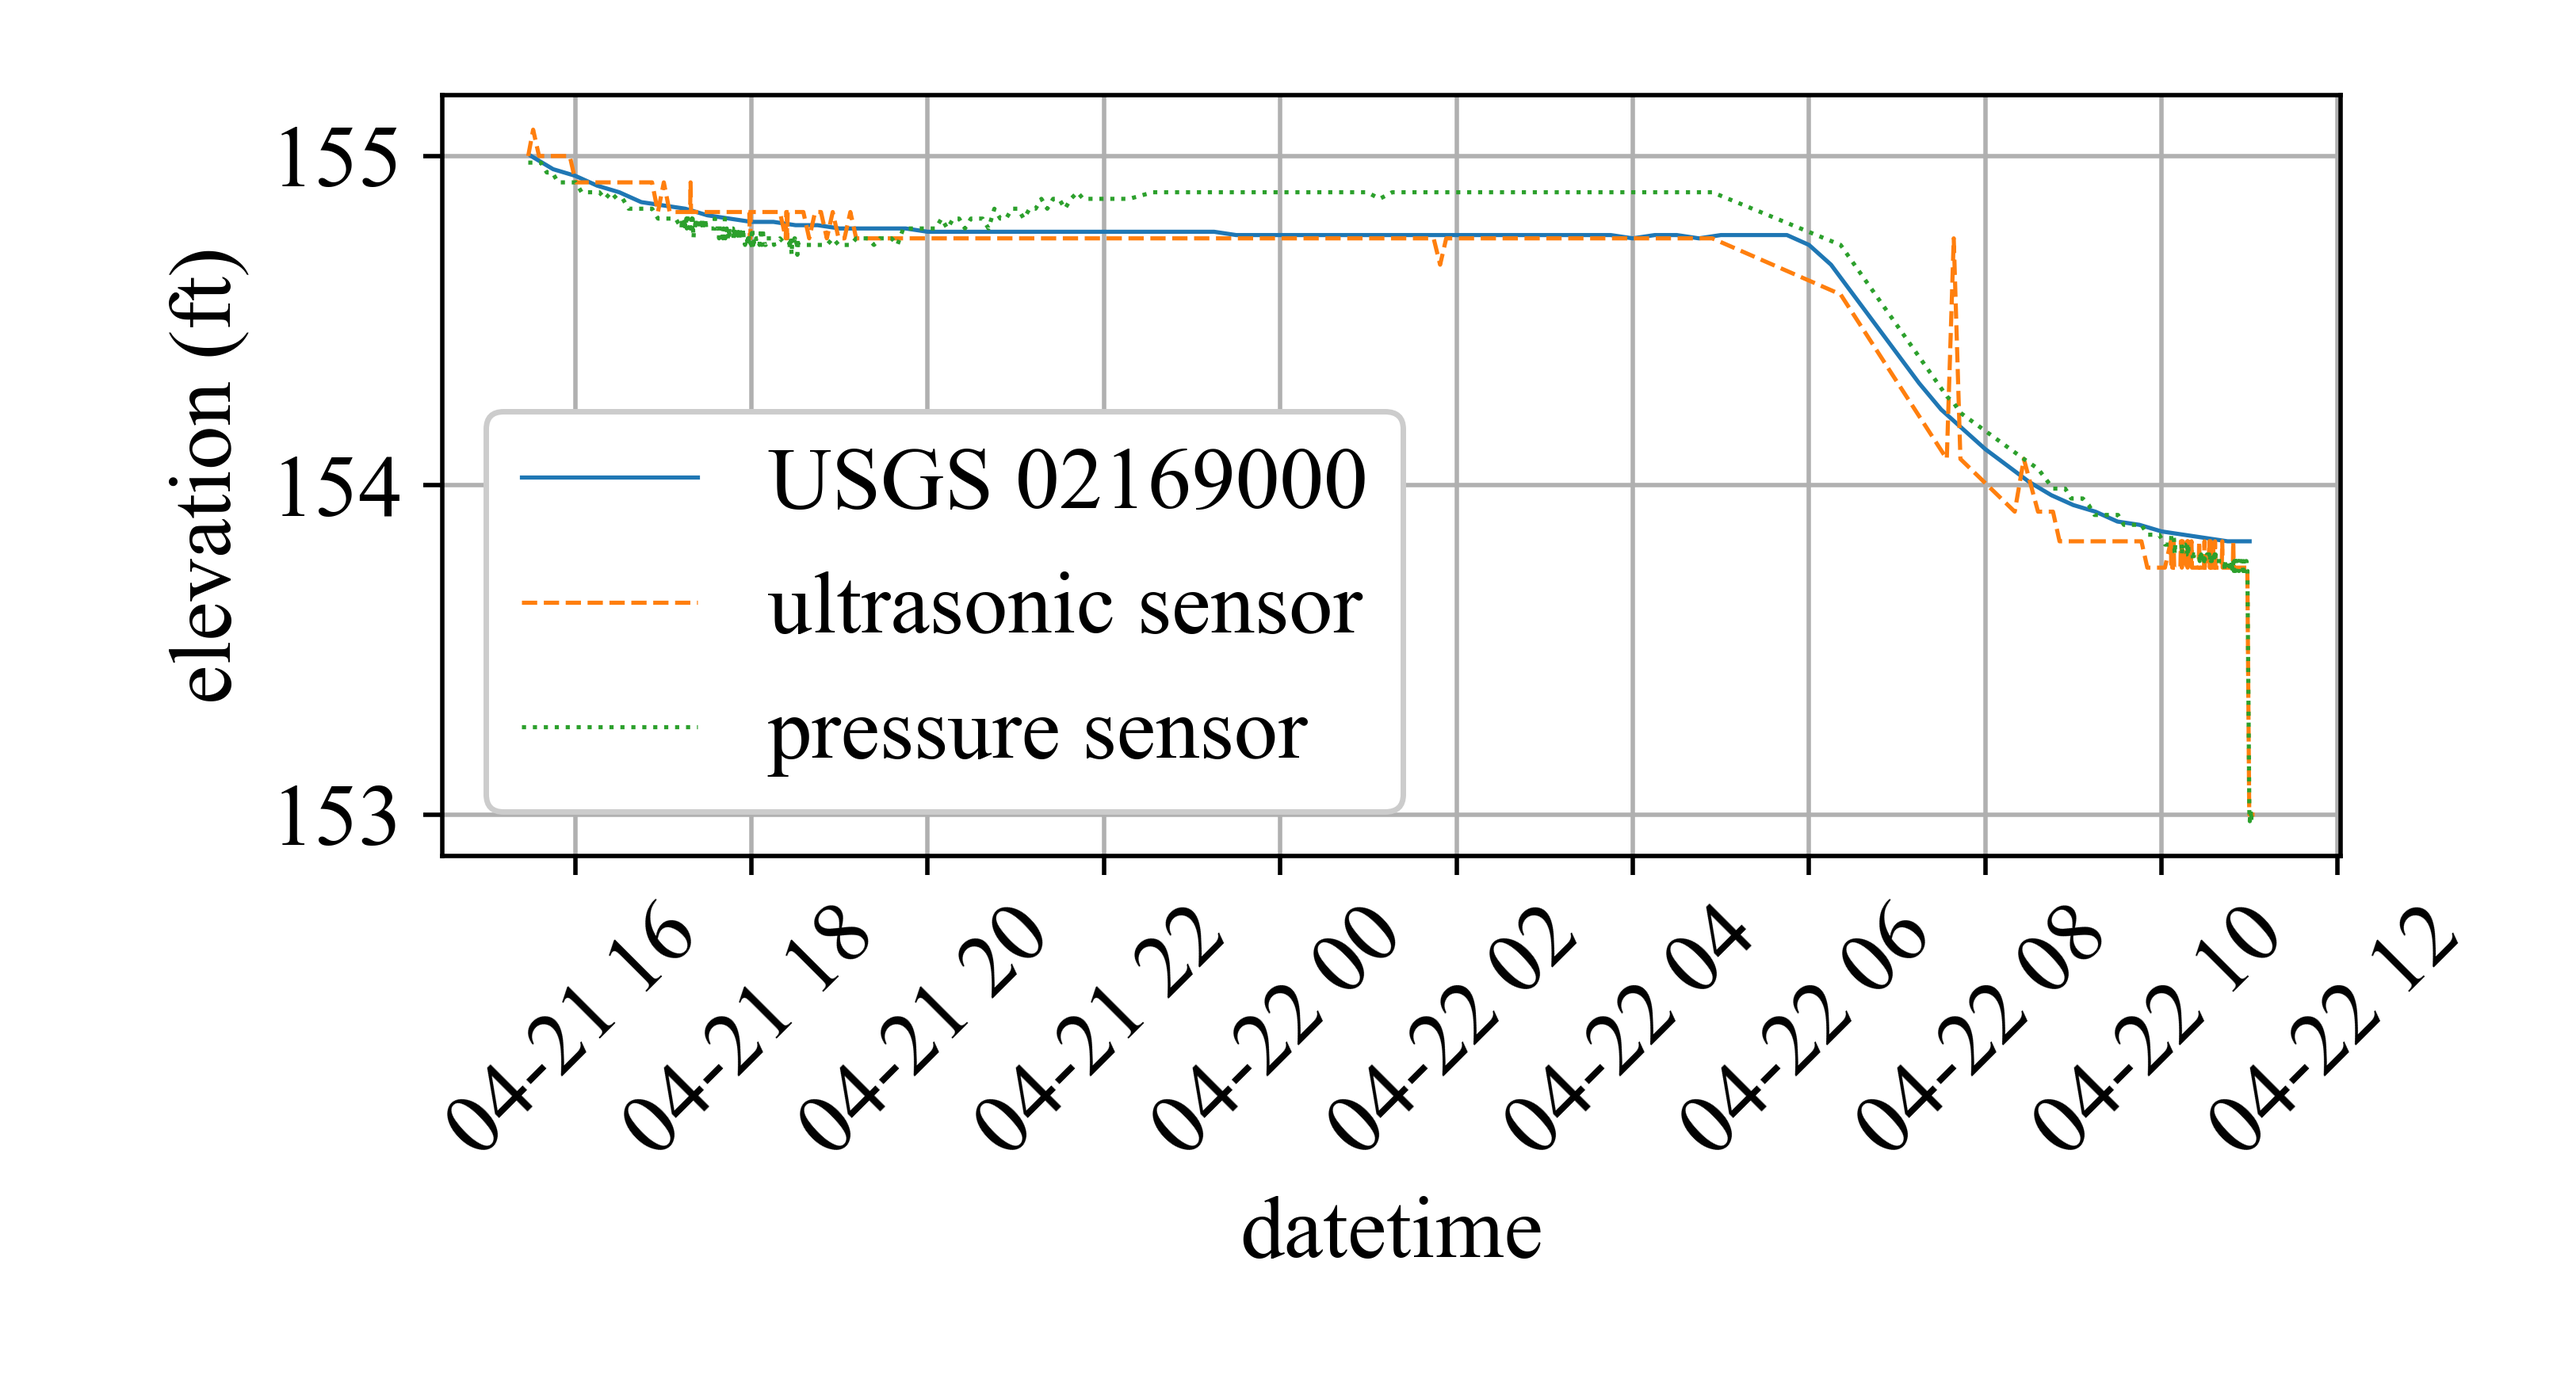
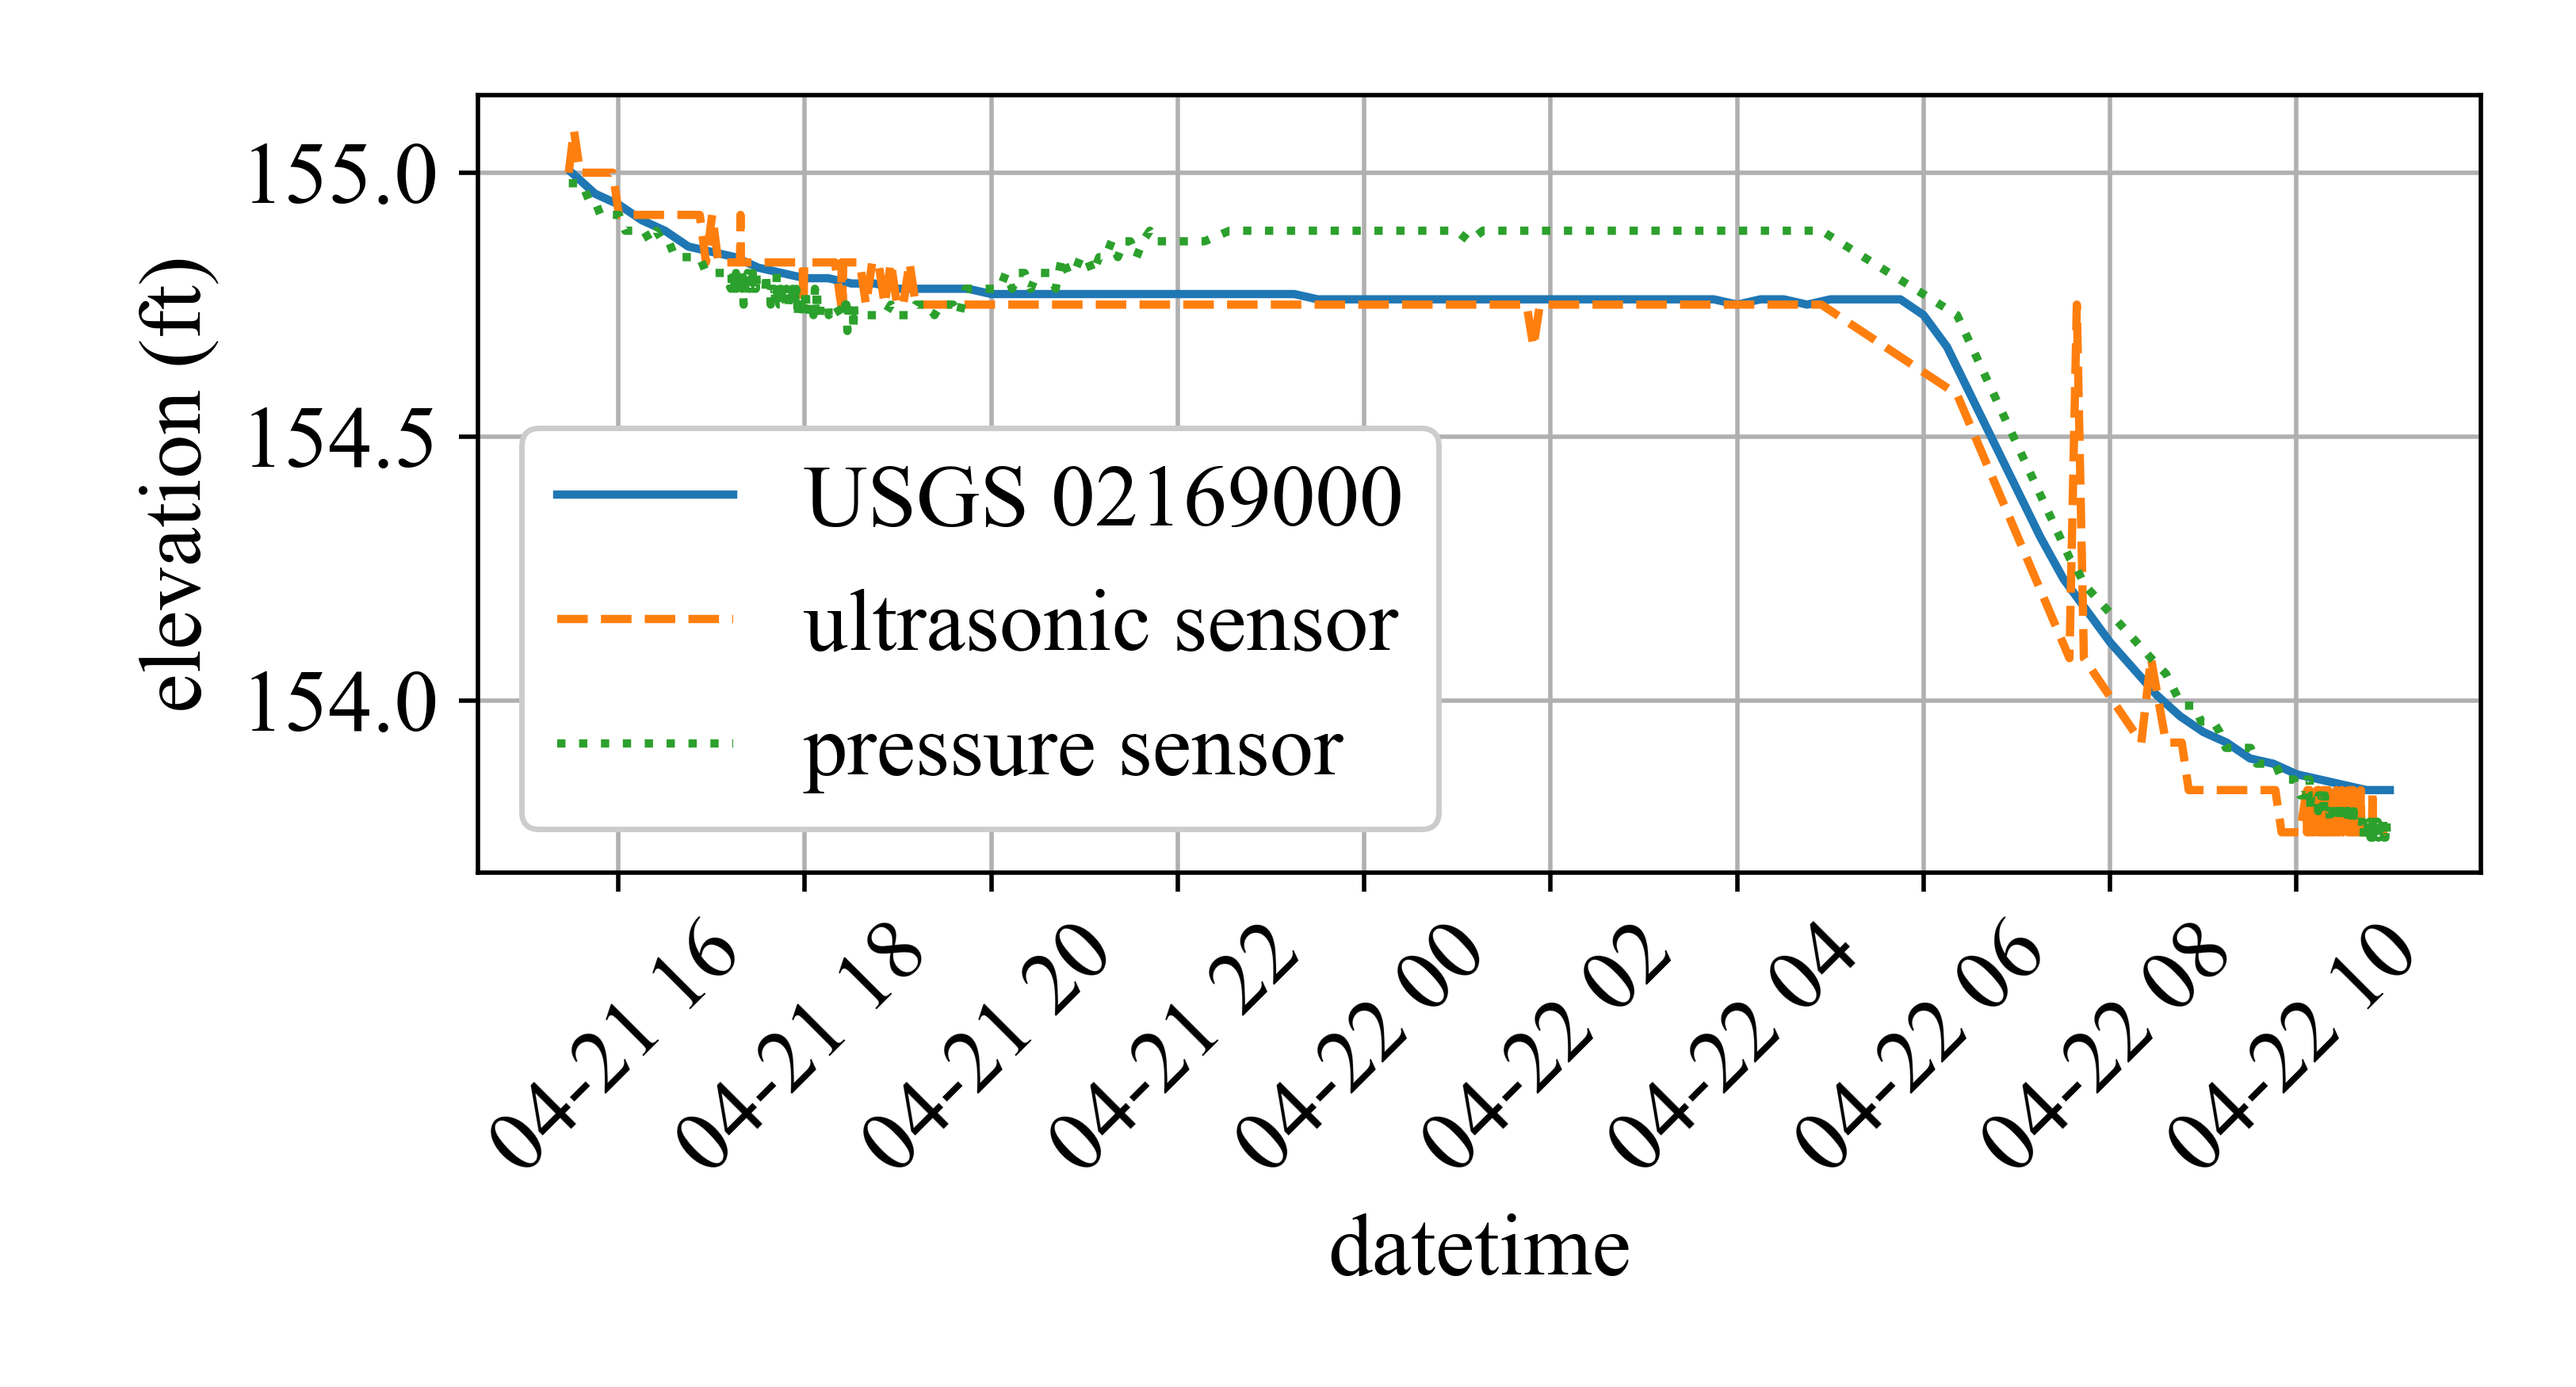
change linewidth

Changed region(s): [[0.0622, 0.0617, 0.9634, 0.8331], [0.4662, 0.864, 0.6526, 0.9257]]

diff --git a/field tests/04_21-04_22/plot_data.py b/field tests/04_21-04_22/plot_data.py
@@ -27,9 +27,9 @@ df2 = pd.read_csv('pressure_data.csv', parse_dates={"Datetime" : [3,4]})
 
 
 plt.figure(figsize=(6.5,3.5))
-plt.plot(df0['Datetime'], df0['stage'], '-', label='USGS 02169000', linewidth=0.75)
-plt.plot(df1['Datetime'], df1['value'], '--', label='ultrasonic sensor', linewidth=0.75)
-plt.plot(df2['Datetime'], df2['value'], ':', label='pressure sensor', linewidth=0.75)
+plt.plot(df0['Datetime'], df0['stage'], '-', label='USGS 02169000')
+plt.plot(df1['Datetime'], df1['value'], '--', label='ultrasonic sensor')
+plt.plot(df2['Datetime'], df2['value'], ':', label='pressure sensor')
 plt.legend(framealpha=1)
 plt.xlabel('datetime')
 plt.ylabel('elevation (ft)')
